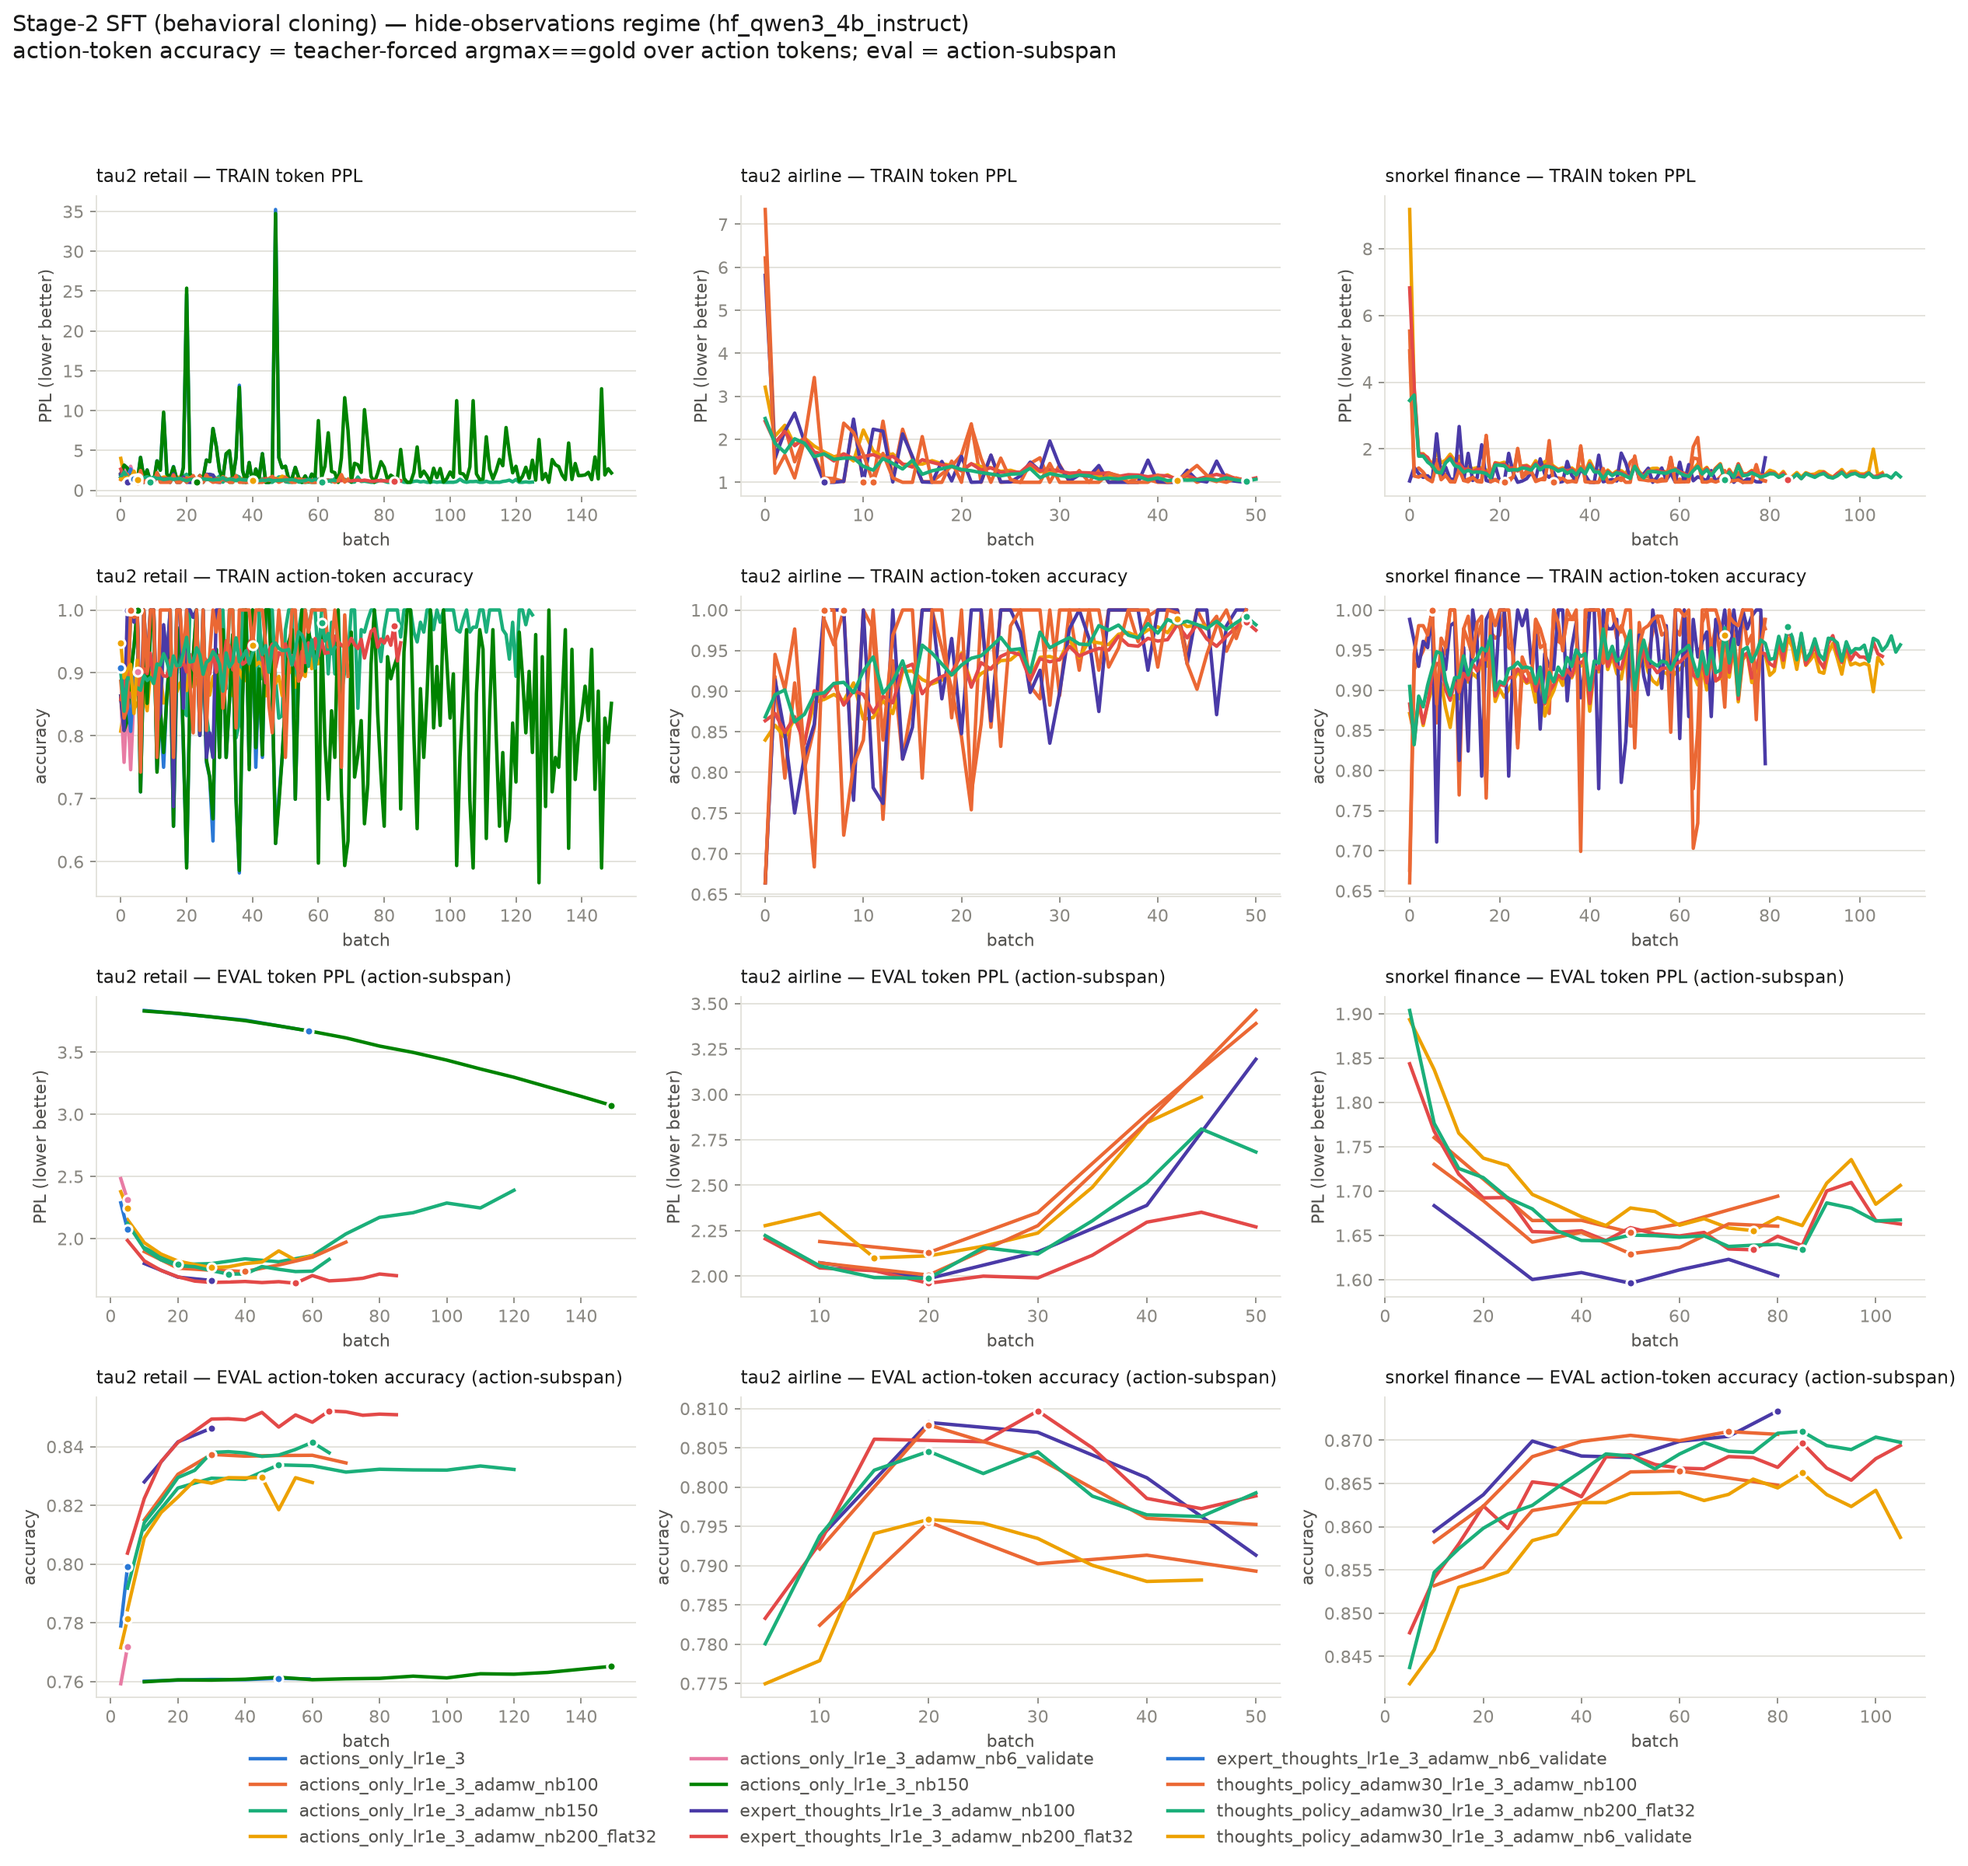
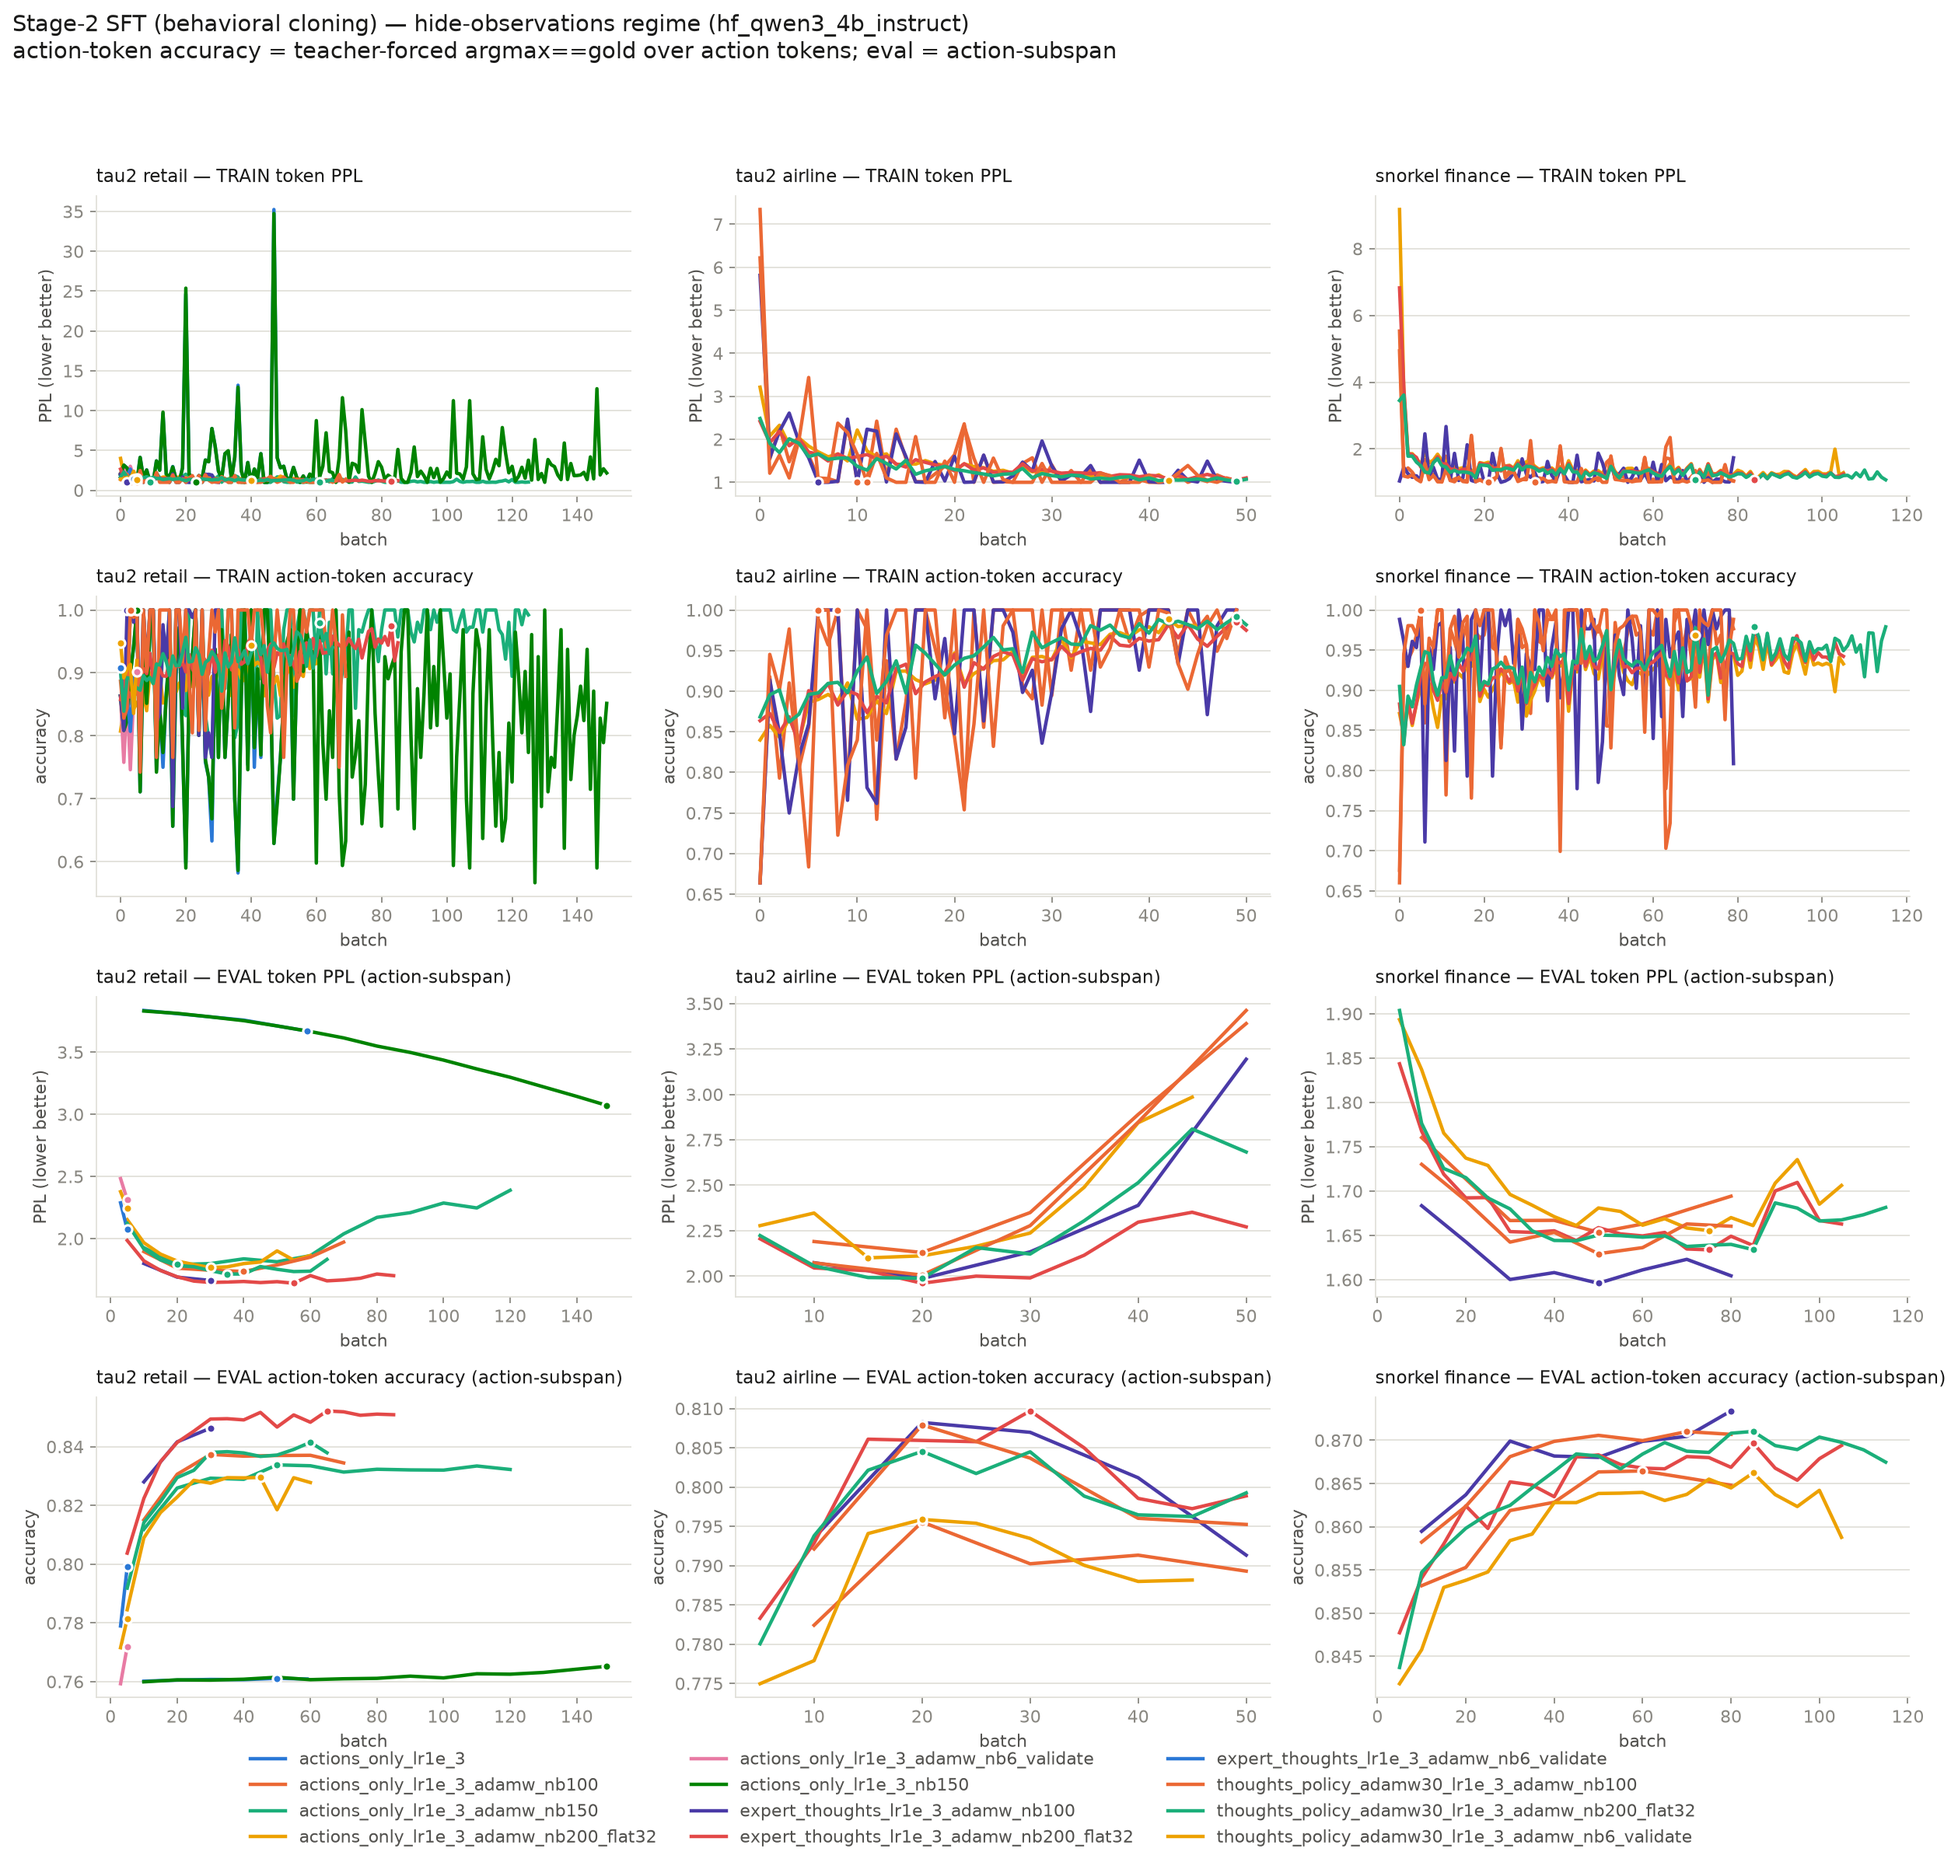
auto: SFT LR sweep results snapshot

diff --git a/notes/cc-5.0-sft-lr-investigation.md b/notes/cc-5.0-sft-lr-investigation.md
@@ -386,11 +386,11 @@ snorkel_finance_split/actions_only_lr1e_3_adamw_nb200_flat32 hide  105     1.893
 snorkel_finance_split/expert_thoughts_lr1e_3_adamw_nb100 hide   80     1.6835 ->   1.6045   4.69%  0.8734        1.7344  <running>
 snorkel_finance_split/expert_thoughts_lr1e_3_adamw_nb200_flat32 hide  105     1.8436 ->   1.6628   9.80%  0.8694        1.2493  <running>
 snorkel_finance_split/thoughts_policy_adamw30_lr1e_3_adamw_nb100 hide   80     1.7302 ->   1.6604   4.03%  0.8707        1.0391  <running>
-snorkel_finance_split/thoughts_policy_adamw30_lr1e_3_adamw_nb200_flat32 hide  109     1.9037 ->   1.6675  12.41%  0.8698        1.1665  <running>
+snorkel_finance_split/thoughts_policy_adamw30_lr1e_3_adamw_nb200_flat32 hide  115     1.9037 ->   1.6815  11.67%  0.8675        1.0747  <running>
 
 5/24 arms complete   (Δ% = held-out action-subspan PPL improvement, higher is better)
 ```
-_last refreshed: 2026-08-31 00:20_
+_last refreshed: 2026-08-31 00:40_
 <!--/RESULTS-->
 
 ## Infrastructure

diff --git a/notes/cc-3.0-snorkel_finance_split_sft_results.md b/notes/cc-3.0-snorkel_finance_split_sft_results.md
@@ -32,7 +32,7 @@ for wordiness rather than for mispredicting the action, which inverts the rankin
 | thoughts_base_lr3e_3_nb150 | hide | 1.8167 | 0.8565 | 149 | 2.1488 | 0.7935 | 149 | 0.4600 |
 | thoughts_base_v3_lr3e_3_nb150 | hide | 1.7954 | 0.8626 | 149 | 2.1660 | 0.7962 | 149 | 1.0576 |
 | thoughts_policy_adamw30_lr1e_3_adamw_nb100 | hide | 1.6293 | 0.8706 | 50 | 1.9318 | 0.8116 | 30 | 0.2812 |
-| thoughts_policy_adamw30_lr1e_3_adamw_nb200_flat32 | hide | 1.6340 | 0.8710 | 85 | — | — | — | 0.3419 |
+| thoughts_policy_adamw30_lr1e_3_adamw_nb200_flat32 | hide | 1.6340 | 0.8710 | 85 | — | — | — | 0.3376 |
 | thoughts_policy_last | hide | 2.3421 | 0.8518 | 55 | 3.1130 | 0.7767 | 50 | 0.8555 |
 | thoughts_policy_lr3e_3_nb150 | hide | 1.7969 | 0.8596 | 149 | 2.1648 | 0.7920 | 149 | 0.4432 |
 | thoughts_policy_v3_lr3e_3_nb150 | hide | 1.7919 | 0.8625 | 149 | 2.1607 | 0.7952 | 149 | 1.2576 |
